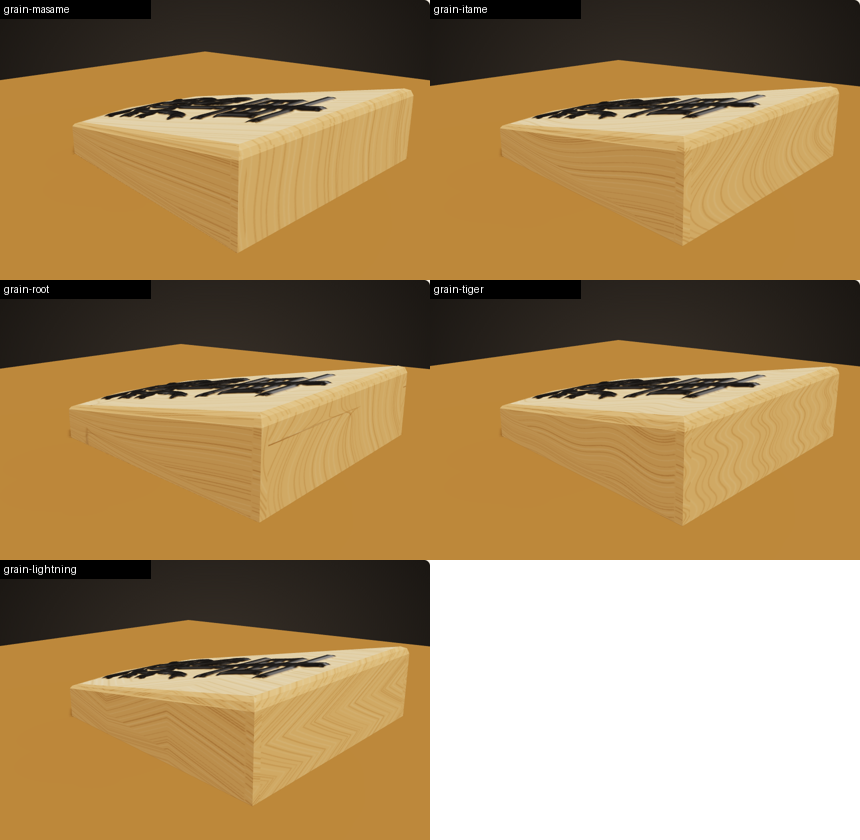
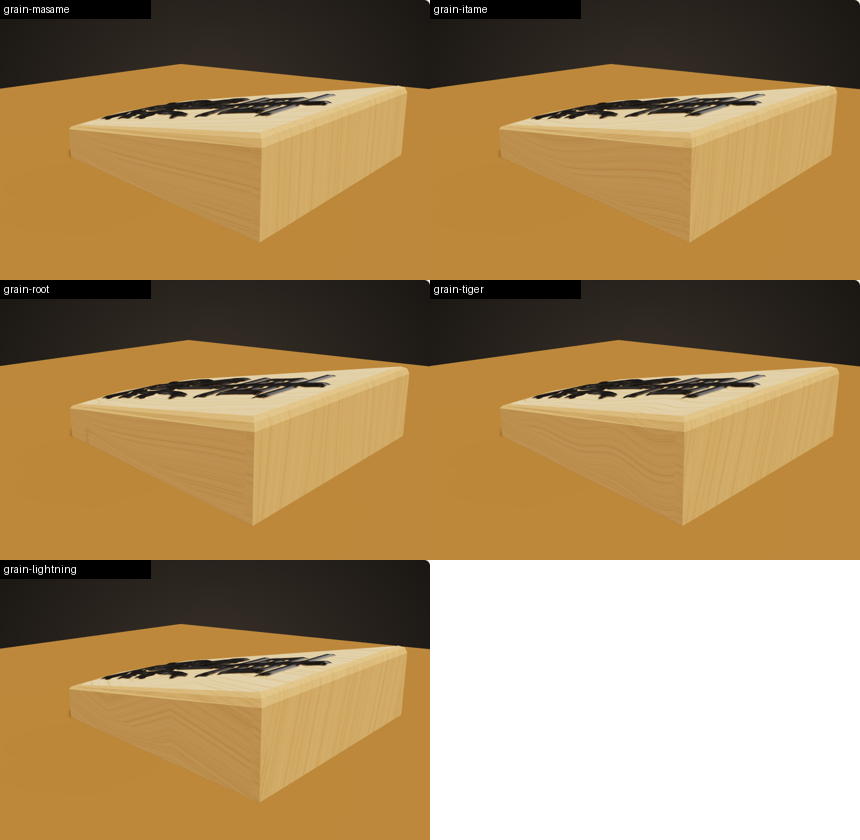
Calm side grain so walls read as clean, consistent wood
Claude-Session: https://claude.ai/code/session_01X51yxzNEAANV5ZtEhLekGJ

diff --git a/src/rendering/board3d/piece.ts b/src/rendering/board3d/piece.ts
@@ -103,7 +103,7 @@ function pieceBody(scale: number) {
     }
     const sink = (pos.getZ(i) - depth) / depth
     if (isEnd[i]) {
-      uv.setXY(i, x / w + 0.5, y / h + 0.5 + sink * 0.8)
+      uv.setXY(i, x / w + 0.5, y / h + 0.5 + sink * 0.1)
       continue
     }
     const half = halfWidthAt(poly, y)
@@ -201,7 +201,12 @@ function sideTexture(seed: number, appearance?: PieceAppearance) {
   const key = `${seed}/${pieceMaterial}/${pieceGrain}/${pieceColor}`
   let texture = sideTextures.get(key)
   if (!texture) {
-    texture = srgbTexture(pieceSurface(seed, appearance))
+    const surface = pieceSurface(seed, appearance)
+    // Calm the grain so the walls read as clean wood next to the carved face.
+    const ctx = surface.getContext('2d')!
+    ctx.fillStyle = `rgba(${pieceTone(pieceMaterial, pieceColor).join(',')},0.5)`
+    ctx.fillRect(0, 0, surface.width, surface.height)
+    texture = srgbTexture(surface)
     texture.wrapS = texture.wrapT = THREE.RepeatWrapping
     sideTextures.set(key, texture)
   }
